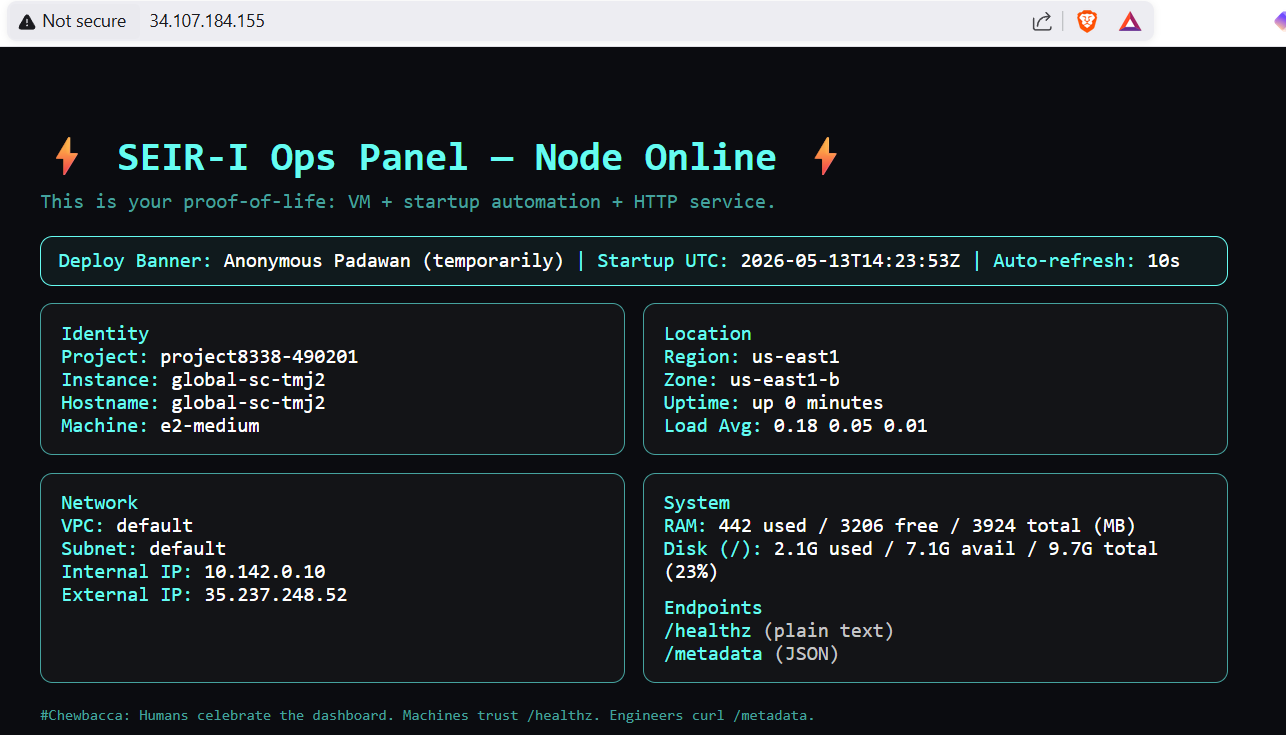
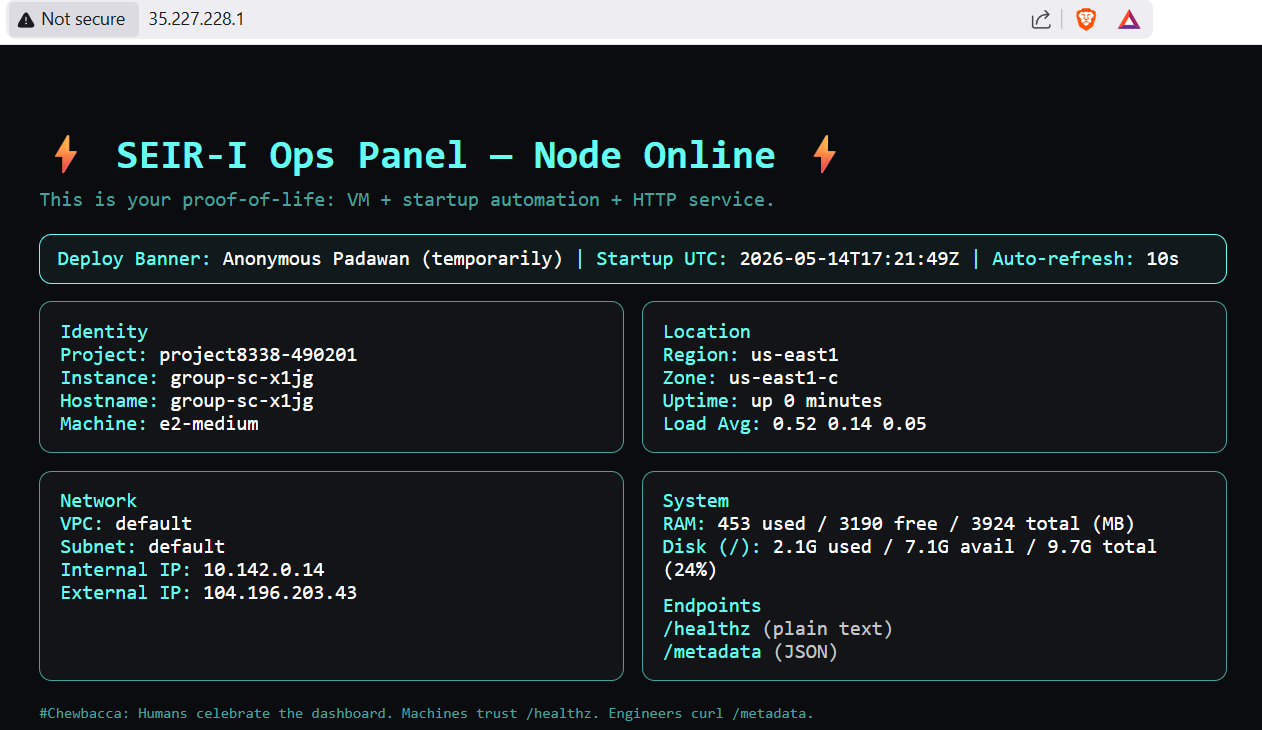
first commit

diff --git a/gcp_week_9/readme9.md b/gcp_week_9/readme9.md
@@ -3,8 +3,12 @@
 Goal: to create fully configure external application global load balancer in clickops, with a MIG as the backend. And showing how to connect the load balancer up to a MIG.
 
 Prerequisites:
+
 Google Account
+
 Global Instance Template
+
+Locust
 
 
 ## Steps
@@ -101,6 +105,9 @@ Global Instance Template
 8.  When it is done creating click on it and find the IP:Port copy the ip address (the 4 octet) and paste it into your browser (ex.http://0.0.0.0)
 ![IP Address](./screenshots/load_balancing_ip_address_015.png)
     - This will check if it has been setup correctly, if done correctly this is how it should look.
+    ![SC Instance Group](./screenshots/load_balancing_website1_016.png)
+    - It should cycle through the Instance Groups
+    ![Berlin Instance Group](./screenshots/load_balancing_website2_017.png)
 
 
 **Section 4 Teardown** 
@@ -109,7 +116,7 @@ Global Instance Template
 2. On the load balancer page click on backends check the box for the backend and click delete at the top 
 ![Delete Backends](./screenshots/teardown_backend_03.png)
 3. Go to Instance group page check on the instance groups and click delete at the top 
-![Delete Instance Groups]()
+![Delete Instance Groups](./screenshots/teardown_instance_group_02.png)
 4. Go to Health check page check on the health check and click delete at the top 
 ![Delete Health Checks](./screenshots/teardown_health_check_04.png)
 
@@ -117,46 +124,119 @@ Global Instance Template
 
 ** Note the backend has to be deleted first, health checks can't be deleted if in use by a backend.
 
+**Bonus Create a Bucket**
+1. Go to the 3 hashes on the top left corner Cloud Storage -> Buckets
+![Create Bucket 1](./screenshots/create_bucket_01.png)
+2. Click on create bucket
+![Create Bucket 2](./screenshots/create_bucket_02.png)
+3. Name the bucket click -> Continue, leave the rest of the chooses as default 
+![Create Bucket 3](./screenshots/create_bucket_03.png)
+![Create Bucket 4](./screenshots/create_bucket_04.png)
+![Create Bucket 5](./screenshots/create_bucket_05.png)
+4. Click on create bucket in the bottom left 
+![Create Bucket 6](./screenshots/create_bucket_06.png)
 
 
 # Q&A
 
 ## Load Balancers
 
-How does load balancing contribute to Fault tolerance? What about high availability? 
+**How does load balancing contribute to Fault tolerance? What about high availability?** 
 
-Do global load balancers decrease latency for end users? Why or why not? 
+It checks for unhealthy or failed instances/servers and routes traffic to the healthy instances/servers that protects against downtime. That also insures that SLA is being honored.
 
-What are LB health checks for? Do we always need them? Is a LB different from a reverse proxy? 
+**Do global load balancers decrease latency for end users? Why or why not?** 
 
-What are LB routing rules and URL maps for? Give an example or two of them in use. 
+Yes by way one of its features CDN, by sending traffic to the nearest edge location to the user, this cached content can be drawn upon when need at a much quicker rate.
 
-Explain what an anycast IP address is used for in the context of a global load balancer. 
+**What are LB health checks for? Do we always need them? Is a LB different from a reverse proxy?**
+
+They check for the health of instances, see if its failed/unhealthy and redirects traffic to healthy instances/servers. Yes in production envirnomentsand you need high avialabilty with minimum downtime. They are similar like they both sit in front of servers, but do different things, Load Balancers deals with spreading traffic around multiple servers, reverse proxy deals with one or more and manages the server.
+
+
+**What are LB routing rules and URL maps for? Give an example or two of them in use.**
+
+Routing rules are the set of methods used to move traffic to the correct destination, URL maps are whats used to route by using the routing rules, they work together to move traffic. Proximity based routing which uses the closest instance to the traffic source to get to the destination.
+
+**Explain what an anycast IP address is used for in the context of a global load balancer.**
+
+Anycast allows the use of a single IP address, so only one GLB is needed for multiple locations.
+
+[Load Balancer](https://cloud.google.com/blog/topics/developers-practitioners/google-cloud-global-external-https-load-balancer-deep-dive)
+
+[Reverse Proxy 1](https://www.f5.com/glossary/web-application-firewall-waf)
+
+[Reverse Proxy 2](https://www.cloudflare.com/learning/ddos/glossary/web-application-firewall-waf/)
+
+[Reverse Proxy Vs. Load Balancer](https://www.upguard.com/blog/reverse-proxy-vs-load-balancer)
+
+[Anycast](https://en.wikipedia.org/wiki/Anycast)
 
 
 ## Cloud Armor
 
-What does cloud armor offer? 
+**What does cloud armor offer?**
 
-Why is it used in the first place?
+It offers protections to application and websites aaginst Denial of Service (DDoS) and other website attacks (SQL Injection, cross-site scripting, etc.).
 
-What layer in the OSI model does it operate at? Why is this important and how is this firewall different from VPC firewall rules? 
+**Why is it used in the first place?**
 
+To protect against website attacks/intrusions, also the fact that more of these attacks are starting to become common, especially considering how the majority of jobs now incorpporates some form of network infrastructure, services like this are needed more and more.
+
+**What layer in the OSI model does it operate at? Why is this important and how is this firewall different from VPC firewall rules?**
+
+It operates at Layer 7 Application (front), at the same time it does provider defense for Layer 3 & 4 as well. It works on the frontend to keep thing secure and protect against DDoS attacks, VPC firewall are rules for the network Layers 3 & 4, as opposed to cloud armor which does provide some defense for Layers 3 & 4 it mainly works at Layer 7. 
 What are rate based rules for? 
 
-What is reCAPTCHA and how does it relate to this service? 
+**What is reCAPTCHA and how does it relate to this service?**
+
+reCAPTCHA is a bot blocking tool, its used to confirm if the person is human, cloud armor can incorporate reCAPTCHA for bot protection.
+
+[Cloud Armor Overview](https://docs.cloud.google.com/armor/docs/cloud-armor-overview)
+
+[Cloud Armor](https://cloud.google.com/blog/topics/developers-practitioners/when-should-i-use-cloud-armor)
+
+[Cloud Armor Policy](https://docs.cloud.google.com/armor/docs/security-policy-overview)
+
+[reCAPTCHA](https://cloud.google.com/security/products/recaptcha?hl=en)
+
+[OSI Model](https://www.cloudflare.com/learning/ddos/glossary/open-systems-interconnection-model-osi/)
+
+[Layer 7](https://www.cloudflare.com/learning/ddos/what-is-layer-7/)
+
 
 
 ## Cloud CDN
 
-What are POPs used for? 
+**What are POPs used for?**
 
-What kind of files are served with Cloud CDN? 
+Points of Presence (POP) are used to get cached content from a edge location to users without having to connect to the origin server.
 
-What services can be used with cloud CDN for the source of content (the origin)? 
 
-Does Cloud CDN help protect against any types of malicious actors or cyberattacks? Explain. 
+**What kind of files are served with Cloud CDN?**
 
-Should an enterprise always use cloud CDN? Why or why not? 
-What is TTL and how does it control content “freshness”? 
+It serves cached content such as images, video, webpages, scripts and font files 
 
+**What services can be used with cloud CDN for the source of content (the origin)?**
+
+Any services that uses HTTP/HTTPS, like Compute Engines (VM), Cloud Storage (buckets), Kubernates, Load Balancers, and Serverless
+
+**Does Cloud CDN help protect against any types of malicious actors or cyberattacks? Explain.**
+
+Yes its a frontend barrier of entry to the origin, by using caching attackers usually won't be able to hit the origin server.  Using this in tandem with Cloud Armor is what makes this a powerful protection tool. 
+
+**Should an enterprise always use cloud CDN? Why or why not? What is TTL and how does it control content “freshness”?** 
+
+It depends on the enterprise if its global I believe its beneficiary to use with edge locations and being able to cache information and get it redistributed quicky through the CDN, if its smaller and mostly internal (local) the caching doesn't help and that service wouldn't be fully taken advantage of. It is time to live, it controls how long data is cached before it expires.
+
+[Cloud CDN 1](https://docs.cloud.google.com/cdn/docs/overview)
+
+[Cloud CDN 2](https://www.geeksforgeeks.org/cloud-computing/what-is-google-cloud-cdn/)
+
+[Cloud CDN 3](https://www.cloudflare.com/learning/cdn/what-is-a-cdn/)
+
+[CDN Best Pratices](https://docs.cloud.google.com/cdn/docs/best-practices)
+
+[TTL 1](https://www.cloudflare.com/learning/cdn/glossary/time-to-live-ttl/)
+
+[TTL 2](https://docs.cloud.google.com/cdn/docs/using-ttl-overrides)